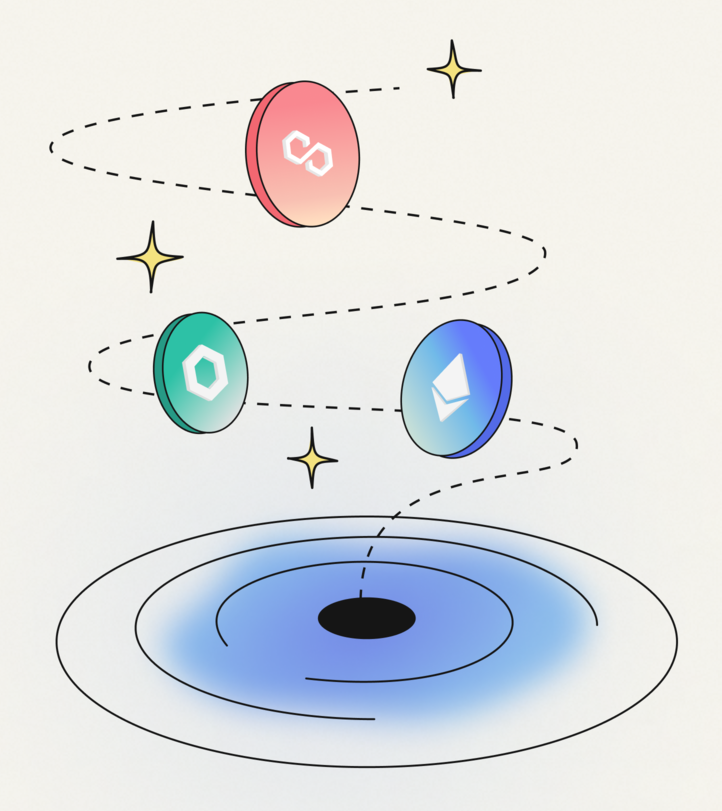
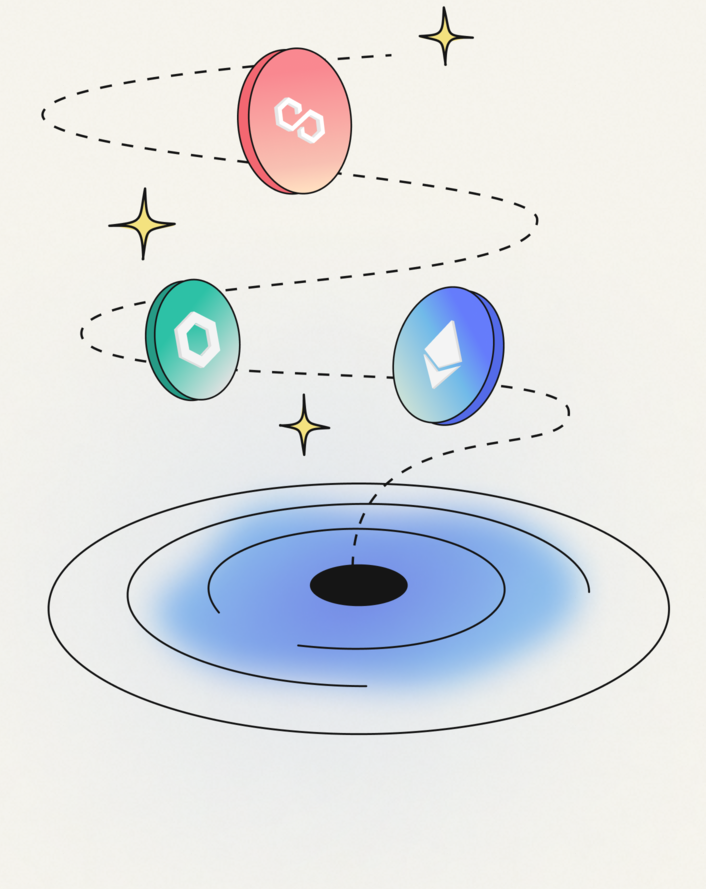
styling the coins page and coin detail

diff --git a/src/components/CoinDetail.jsx b/src/components/CoinDetail.jsx
@@ -1,7 +1,6 @@
 import React, {useState, useEffect} from 'react'
 import { useParams } from 'react-router-dom'
 import axios from 'axios'
-import CoinChart from './CoinChart'
 
 const CoinDetail = () => {
   const {id} = useParams()
@@ -29,8 +28,8 @@ const CoinDetail = () => {
 
   return (
     <div className="font-sans">
-        <div className="flex justify-center items-center">
-            {coinDetail.market_cap_rank ? <span className="text-lg bg-[#4540ca] flex justify-center items-center text-[#F5F4F2] rounded-full" style={{width : "2.5rem", height : "2.5rem"}}>#{coinDetail.market_cap_rank}</span> : null}
+        <div className="flex justify-center items-center mt-20">
+            {coinDetail.market_cap_rank ? <span className="text-lg bg-[#4540ca] flex justify-center items-center text-[#F5F4F2] rounded-full" style={{minWidth : "2.5rem", minHeight : "2.5rem"}}>#{coinDetail.market_cap_rank}</span> : null}
             <h1 className='text-4xl font-bold flex justify-center items-center mx-2'>{coinDetail.name}</h1>
           </div>
             <div className='flex justify-around items-center my-16'>
@@ -45,10 +44,10 @@ const CoinDetail = () => {
           <div className="overflow-x-auto">
             <div className="flex items-center justify-center">
                 <div className="w-full lg:w-5/6">
-                    <div className="bg-[#201E50] text-[#F5F4F2] shadow-lg">
-                        <table className="min-w-max w-full table-auto">
+                    <div className="bg-[#201E50] text-[#F5F4F2] shadow-xl">
+                        <table className="min-w-max w-full table-auto mt-10 mb-28">
                           <thead>
-                                <tr>
+                                <tr className="text-lg">
                                     <th className="py-3 px-6 text-center w-1/6">1H</th>
                                     <th className="py-3 px-6 text-center w-1/6">24H</th>
                                     <th className="py-3 px-6 text-center w-1/6">7D</th>
@@ -57,29 +56,40 @@ const CoinDetail = () => {
                                     <th className="py-3 px-6 text-center w-1/6">1Y</th>
                                 </tr>
                             </thead>
-                <tbody>
-                    <tr>
-                        <td className="py-3 px-6 text-center w-1/6">{coinDetail.market_data?.price_change_percentage_1h_in_currency ? <p>{coinDetail.market_data.price_change_percentage_1h_in_currency.usd.toFixed(1)}%</p> : null}</td>
-                        <td className="py-3 px-6 text-center w-1/6">{coinDetail.market_data?.price_change_percentage_24h_in_currency ? <p>{coinDetail.market_data.price_change_percentage_24h_in_currency.usd.toFixed(1)}%</p> : null}</td>
-                        <td className="py-3 px-6 text-center w-1/6">{coinDetail.market_data?.price_change_percentage_7d_in_currency ? <p>{coinDetail.market_data.price_change_percentage_7d_in_currency.usd.toFixed(1)}%</p> : null}</td>
-                        <td className="py-3 px-6 text-center w-1/6">{coinDetail.market_data?.price_change_percentage_14d_in_currency ? <p>{coinDetail.market_data.price_change_percentage_14d_in_currency.usd.toFixed(1)}%</p> : null}</td>
-                        <td className="py-3 px-6 text-center w-1/6">{coinDetail.market_data?.price_change_percentage_30d_in_currency ? <p>{coinDetail.market_data.price_change_percentage_30d_in_currency.usd.toFixed(1)}%</p> : null}</td>
-                        <td className="py-3 px-6 text-center w-1/6">{coinDetail.market_data?.price_change_percentage_1y_in_currency ? <p>{coinDetail.market_data.price_change_percentage_1y_in_currency.usd.toFixed(1)}%</p> : null}</td>
-
-                    </tr>
-                </tbody>
-            </table>
-            </div>
-            </div>
-            </div>
-          </div>
-          <div>
-            <h1 className='text-2xl font-bold flex justify-start'>About</h1>
-            {coinDetail.description ? <p>{coinDetail.description.en}</p> : null}
-          </div>
-          <CoinChart coinData={coinData} />
-    </div>
-  )
+                            <tbody className="text-lg">
+                                <tr>
+                                    {/* 1h */}
+                                    <td className="py-3 px-6 text-center w-1/6">{coinDetail.market_data?.price_change_percentage_1h_in_currency?.usd ? <span className={coinDetail.market_data.price_change_percentage_1h_in_currency.usd > 0 ? 'text-green-500' : 'text-red-500'}>{coinDetail.market_data.price_change_percentage_1h_in_currency.usd.toFixed(2)}%</span> : null}</td>
+                                    
+                                    {/* 24h */}
+                                    <td className="py-3 px-6 text-center w-1/6">{coinDetail.market_data?.price_change_percentage_24h_in_currency?.usd ? <span className={coinDetail.market_data.price_change_percentage_24h_in_currency.usd > 0 ? 'text-green-500' : 'text-red-500'}>{coinDetail.market_data.price_change_percentage_24h_in_currency.usd.toFixed(2)}%</span> : null}</td>
+                                      
+                                    {/* 7d */}
+                                    <td className="py-3 px-6 text-center w-1/6">{coinDetail.market_data?.price_change_percentage_7d_in_currency?.usd ? <span className={coinDetail.market_data.price_change_percentage_7d_in_currency.usd > 0 ? 'text-green-500' : 'text-red-500'}>{coinDetail.market_data.price_change_percentage_7d_in_currency.usd.toFixed(2)}%</span> : null}</td>
+                                    
+                                    {/* 14d */}
+                                    <td className="py-3 px-6 text-center w-1/6">{coinDetail.market_data?.price_change_percentage_14d_in_currency?.usd ? <span className={coinDetail.market_data.price_change_percentage_14d_in_currency.usd > 0 ? 'text-green-500' : 'text-red-500'}>{coinDetail.market_data.price_change_percentage_14d_in_currency.usd.toFixed(2)}%</span> : null}</td>
+                                    
+                                    {/* 30d */}
+                                    <td className="py-3 px-6 text-center w-1/6">{coinDetail.market_data?.price_change_percentage_30d_in_currency?.usd ? <span className={coinDetail.market_data.price_change_percentage_30d_in_currency.usd > 0 ? 'text-green-500' : 'text-red-500'}>{coinDetail.market_data.price_change_percentage_30d_in_currency.usd.toFixed(2)}%</span> : null}</td>
+                                    
+                                    {/* 1y */}
+                                    <td className="py-3 px-6 text-center w-1/6">{coinDetail.market_data?.price_change_percentage_1y_in_currency?.usd ? <span className={coinDetail.market_data.price_change_percentage_1y_in_currency.usd > 0 ? 'text-green-500' : 'text-red-500'}>{coinDetail.market_data.price_change_percentage_1y_in_currency.usd.toFixed(2)}%</span> : null}</td>
+                                </tr>
+                            </tbody>
+                        </table>
+                      </div>
+                    </div>
+                  </div>
+                </div>
+                  <div className="flex items-center justify-center">
+                      <div className="w-full lg:w-5/6">
+                        <h1 className='text-2xl font-bold mb-5'>About</h1>
+                        <span>{coinDetail.description ? <p className="text-justify mb-20">{coinDetail.description.en}</p> : null}</span>
+                      </div>
+                  </div>
+  </div>
+)
 }
 
 export default CoinDetail

diff --git a/src/components/CoinsList.jsx b/src/components/CoinsList.jsx
@@ -6,10 +6,44 @@ import Coins from './Coins'
 const CoinsList = () => {
     const [coins, setCoins] = useState([])
     const [search, setSearch] = useState('')
-    
+    const [display, setDisplay] = useState(50)
+    const [seeMore, setSeeMore] = useState(false)
+    const [seeLess, setSeeLess] = useState(false)
+    console.log (display)
+    console.log (seeMore)
+
+
     useEffect(() => {
         axios
-            .get(`https://api.coingecko.com/api/v3/coins/markets?vs_currency=usd&order=market_cap_desc&per_page=100&page=1&sparkline=false`)
+            .get('https://api.coingecko.com/api/v3/coins/markets?vs_currency=usd&order=market_cap_desc&per_page=250&page=1&sparkline=false')
+            .then(res => {
+                setDisplay(50)
+                setCoins(res.data)
+            })
+            .catch(error => console.log(error))
+    }, [])
+
+    
+    useEffect (() => {
+        if (display >= coins.length) {
+            setSeeMore(false)
+        } else {
+            setSeeMore(true)
+        }
+    }, [display, coins])
+
+    useEffect (() => {
+        if (display <= 50) {
+            setSeeLess(false)
+        } else {
+            setSeeLess(true)
+        }
+    }, [display])
+
+
+    useEffect(() => {
+        axios
+            .get(`https://api.coingecko.com/api/v3/coins/markets?vs_currency=usd&order=market_cap_desc&per_page=250&page=1&sparkline=false`)
             .then(res => {
                 setCoins(res.data)
                 console.log(res.data)
@@ -17,17 +51,20 @@ const CoinsList = () => {
             .catch(error => console.log(error))
     }, [])
 
+
     const handleChange = e => {
         setSearch(e.target.value)
     }
+
 
     const filteredCoins = coins.filter(coin =>
         coin.name.toLowerCase().includes(search.toLowerCase())
     )
 
+
   return (
     <div className="font-sans">
-        <div className='flex justify-center my-10'>
+        <div className='flex justify-center my-20'>
             <input
             className="bg-lightGrey h-10 w-1/3 pl-5 text-m focus:outline-none text-darkBlue focus:ring-2"
             type="search"
@@ -43,10 +80,10 @@ const CoinsList = () => {
         <div className="overflow-x-auto">
             <div className="flex items-center justify-center">
                 <div className="w-full lg:w-5/6">
-                    <div className="bg-white shadow-md rounded">
-                        <table className="min-w-max w-full table-auto">
+                    <div className="shadow-xl">
+                        <table className="min-w-max w-full table-auto h-14">
                             <thead>
-                                <tr className="bg-gray-200 text-gray-600 uppercase text-m">
+                                <tr className="bg-[#201E50] text-white uppercase text-m ">
                                     <th className="py-3 px-6 text-center w-1/6">RANK</th>
                                     <th className="py-3 px-6 text-start w-1/6">NAME</th>
                                     <th className="py-3 px-6 text-end w-1/6">PRICE</th>
@@ -60,25 +97,32 @@ const CoinsList = () => {
                 </div>
             </div>
         </div>
-        {filteredCoins.map(coin => {
-            return (
-                <Coins 
-                key={coin.id}
-                id = {coin.id}
-                name={coin.name}
-                price={coin.current_price}
-                symbol={coin.symbol}
-                marketcap={coin.market_cap}
-                image={coin.image}
-                supply={coin.total_supply}
-                priceChange={coin.price_change_percentage_24h}
-                rank={coin.market_cap_rank}
-                change24h={coin.price_change_percentage_24h}
-                lastUpdate={coin.last_updated}
-                />
-            )
-        }
-        )}
+            {filteredCoins.slice(0, display).map(coin => {
+                return (
+                    <Coins
+                    key={coin.id}
+                    id = {coin.id}
+                    name={coin.name}
+                    price={coin.current_price}
+                    symbol={coin.symbol}
+                    marketcap={coin.market_cap}
+                    image={coin.image}
+                    supply={coin.total_supply}
+                    priceChange={coin.price_change_percentage_24h}
+                    rank={coin.market_cap_rank}
+                    change24h={coin.price_change_percentage_24h}
+                    lastUpdate={coin.last_updated}
+                    />
+                )
+            })}
+            <div className="flex justify-center">
+                <div className="flex justify-center my-8 mx-5">
+                {seeMore && <button className="bg-[#201E50] text-white text-m w-28 h-10 rounded-full hover:bg-[#4540ca] transition duration-300 ease-in-out shadow-lg shadow-blue-500/20 hover:-translate-y-1 hover:scale-105" onClick={() => setDisplay(display + 50)}>View More</button>}
+                </div>
+                <div className="flex justify-center my-8">
+                {seeLess && <button className="bg-[#201E50] text-white text-m w-28 h-10 rounded-full hover:bg-[#4540ca] transition duration-300 ease-in-out shadow-lg shadow-blue-500/20 hover:-translate-y-1 hover:scale-105" onClick={() => setDisplay(display - 50)}>View Less</button>}
+                </div>
+            </div>
     </div>
   )
 }

diff --git a/src/components/Coins.jsx b/src/components/Coins.jsx
@@ -19,11 +19,11 @@ const Coins = (
         <div className="overflow-x-auto">
             <div className="min-w-screen flex items-center justify-center">
                 <div className="w-full lg:w-5/6">
-                    <div className="bg-white shadow-md rounded">
+                    <div className="bg-white shadow-md">
                         <div className="min-w-max w-full table-auto">
-                            <table className="min-w-max w-full table-auto">
-                                <tbody className="text-gray-600 text-m font-medium">
-                                    <tr className="border-b border-gray-200 hover:bg-gray-100 ">
+                            <table className="min-w-max w-full table-auto h-14">
+                                <tbody className="text-m font-medium">
+                                    <tr className="border-b border-gray-200 hover:bg-[#4540ca13]">
                                         <td className="text-left whitespace-nowrap w-1/6">
                                             <div className="py-3 px-6">
                                                 <div className="flex justify-center">
@@ -58,11 +58,11 @@ const Coins = (
                                         </td>
                                         <td className="py-3 px-6 w-1/6">
                                             {change24h < 0 ? (
-                                                <span className="flex items-center justify-end text-red-500">
+                                                <span className="flex items-center justify-center text-red-500">
                                                     {change24h.toFixed(2)}%
                                                 </span>
                                             ) : (
-                                                <span className="flex items-center justify-end text-green-500">
+                                                <span className="flex items-center justify-center text-green-500">
                                                     {change24h.toFixed(2)}%
                                                 </span>
                                             )}

diff --git a/src/components/Title.jsx b/src/components/Title.jsx
@@ -10,8 +10,7 @@ function Title() {
         </div>
         <div className="p-presentation mt-5">
             <p>
-              Lorem ipsum dolor sit amet consectetur adipisicing elit. Neque accusamus esse doloribus veritatis odio, facere odit quaerat expedita possimus obcaecati? Voluptatibus ab consequatur perferendis quia explicabo, tempora placeat dolor exercitationem?
-            </p>
+            MCD is the website for tracking crypto asset prices. Find out in real time the price of crypto-currencies and information about them.</p>
         </div>
     </div>
   )

diff --git a/src/components/HomeImage.jsx b/src/components/HomeImage.jsx
@@ -4,7 +4,7 @@ import homeimage from '../assets/homeimage.png'
 const HomeImage = () => {
   return (
     <div>
-        <img src={homeimage} alt="coins" style={{width: '35rem' }}/>
+        <img className="mt-28" src={homeimage} alt="coins" style={{width: '33rem' }}/>
     </div>
   )
 }
